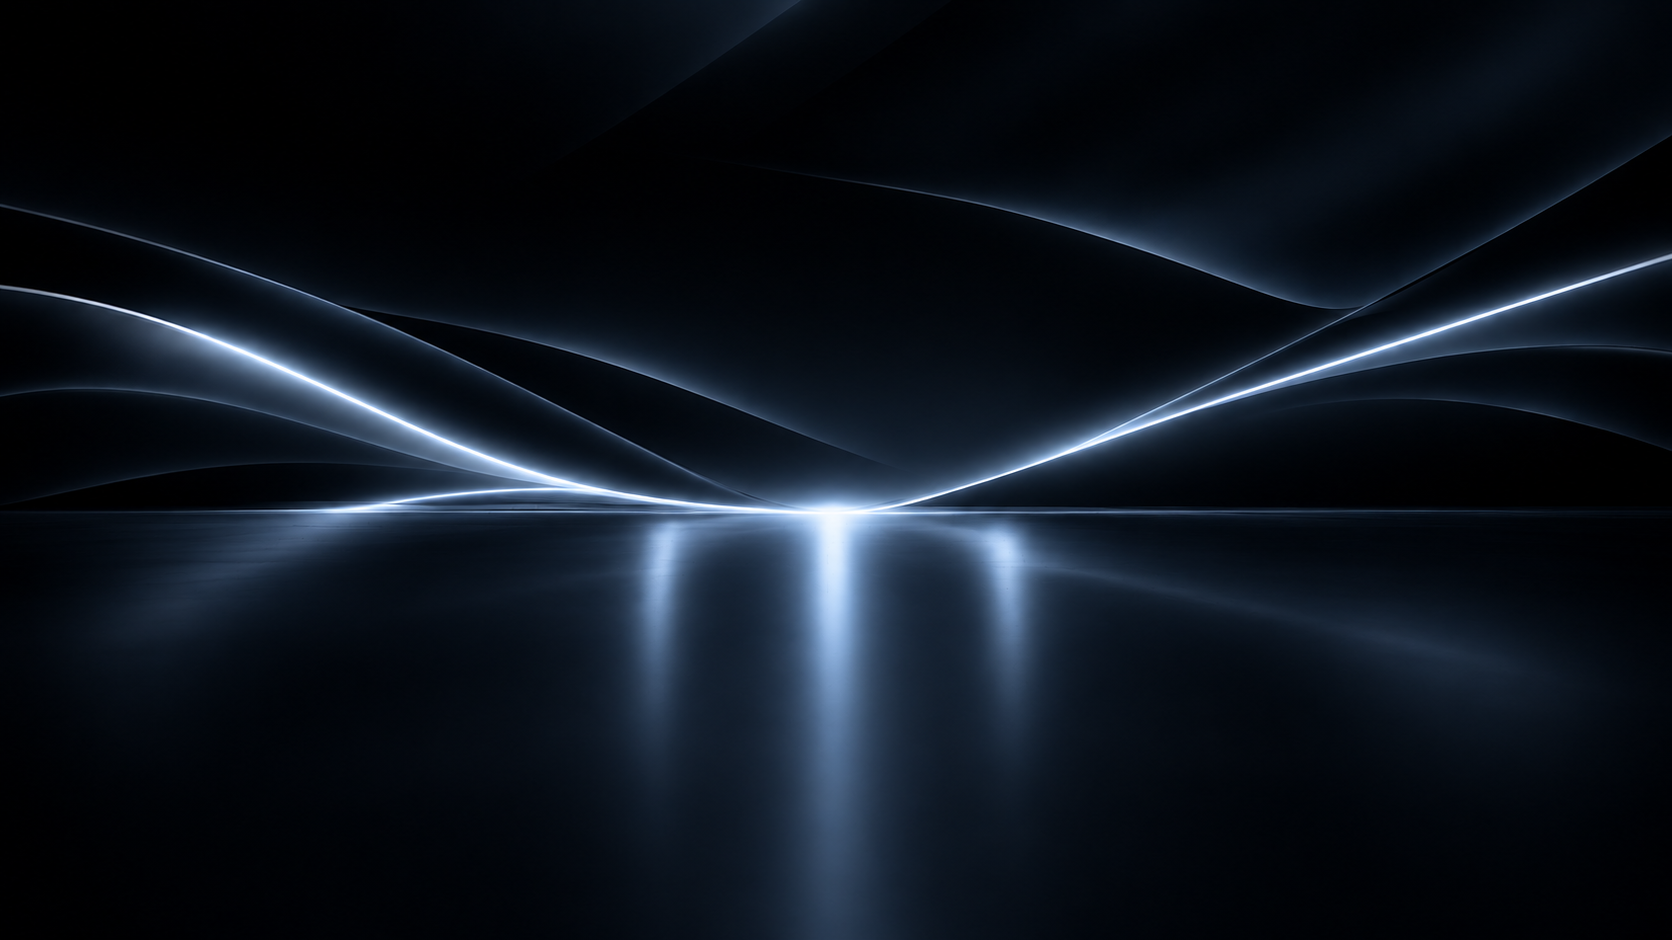
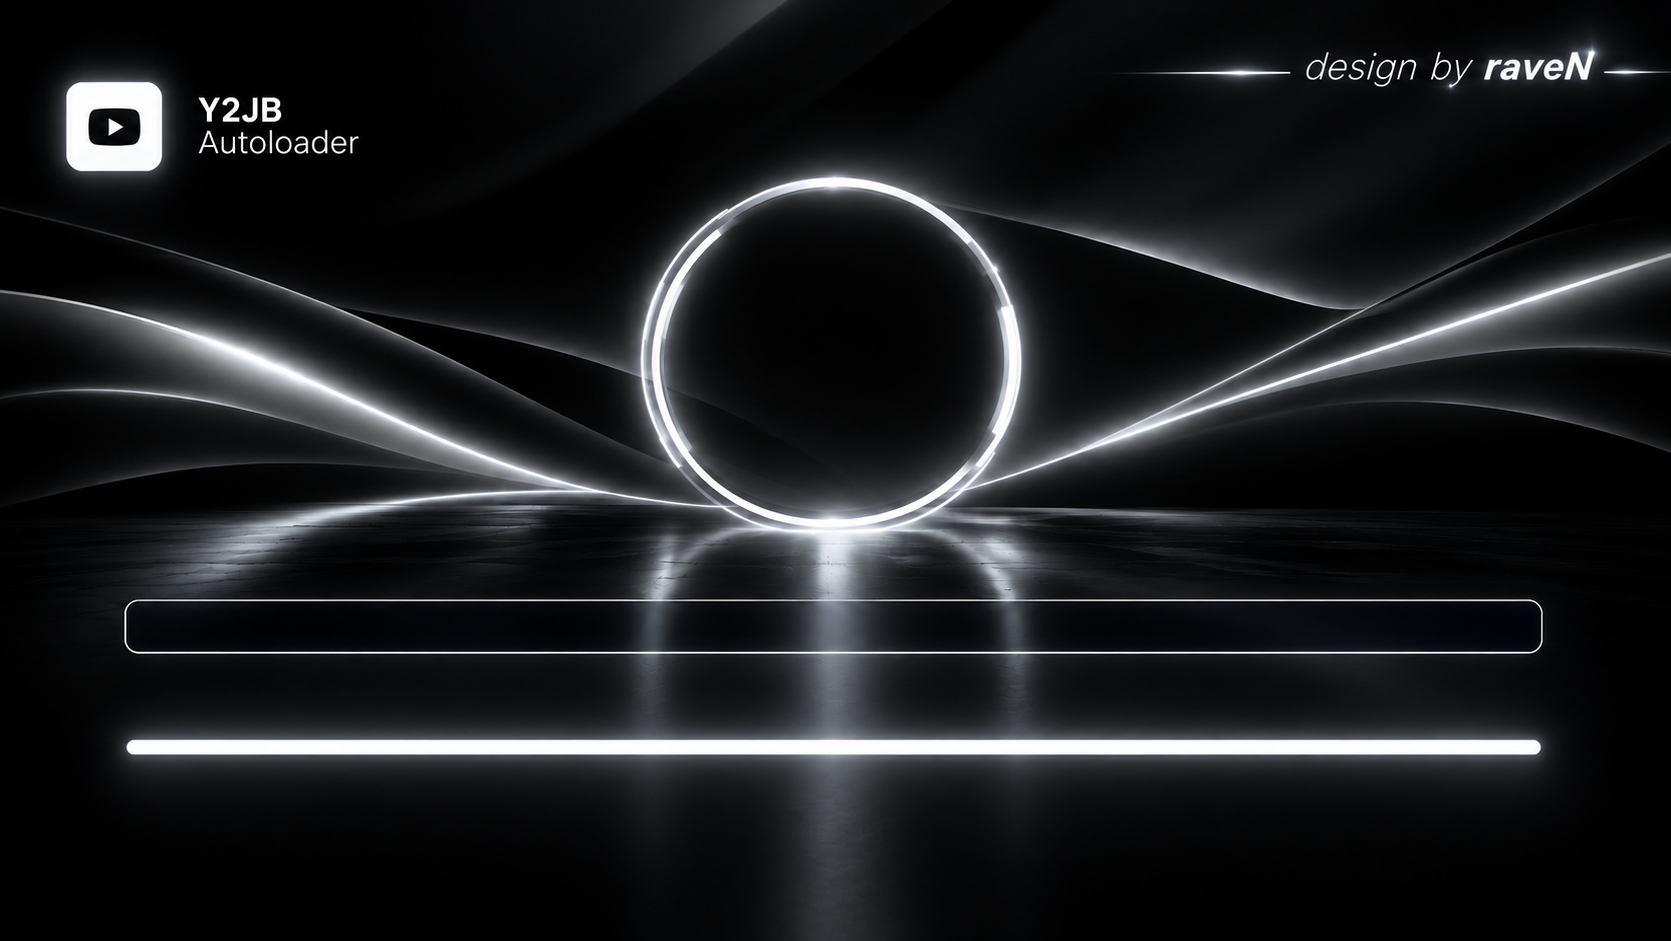
Redesign Y2JB loader ring and background

diff --git a/src/main.js b/src/main.js
@@ -229,69 +229,92 @@ function trigger() {
 	});
 	header.appendChild(credit);
 
-        // Central YouTube-style loader emblem. Keep all artwork native to avoid external requests.
+
+        // Central animated jailbreak loader.
         const emblem = document.createElement("div");
         Object.assign(emblem.style, {
-            position: "absolute", left: "50%", top: "45%", width: "420px", height: "420px",
-            transform: "translate(-50%,-50%)", display: "flex", alignItems: "center",
-            justifyContent: "center", opacity: "1", zIndex: "2", pointerEvents: "none"
+            position: "absolute", left: "50%", top: "45%",
+            width: "460px", height: "460px",
+            transform: "translate(-50%,-50%)",
+            display: "flex", alignItems: "center", justifyContent: "center",
+            opacity: "1", zIndex: "2", pointerEvents: "none"
         });
         root.appendChild(emblem);
 
         const ring = document.createElement("div");
         ring.id = "jailbreakRing";
         Object.assign(ring.style, {
-            position: "absolute", width: "300px", height: "300px", boxSizing: "border-box",
-            borderRadius: "50%", border: "2px solid rgba(255,255,255,.78)",
-            boxShadow: "0 0 18px rgba(255,255,255,.28),0 0 48px rgba(255,255,255,.14),inset 0 0 32px rgba(255,255,255,.06)"
+            position: "absolute",
+            width: "320px", height: "320px",
+            boxSizing: "border-box", borderRadius: "50%",
+            border: "12px solid transparent",
+            background: "conic-gradient(from 0deg, rgba(255,255,255,.06) 0deg, rgba(255,255,255,.12) 18deg, #fff 32deg, rgba(255,255,255,.95) 42deg, rgba(255,255,255,.12) 58deg, transparent 		72deg, transparent 88deg, rgba(255,255,255,.08) 100deg, rgba(255,255,255,.65) 116deg, #fff 128deg, rgba(255,255,255,.08) 143deg, transparent 158deg, transparent 178deg, 	rgba(255,255,255,.08) 190deg, rgba(255,255,255,.75) 207deg, #fff 218deg, rgba(255,255,255,.08) 234deg, transparent 250deg, transparent 268deg, rgba(255,255,255,.08) 280deg, 	rgba(255,255,255,.55) 296deg, #fff 307deg, rgba(255,255,255,.08) 324deg, transparent 340deg, transparent 360deg)",
+            boxShadow: "0 0 22px rgba(255,255,255,.65), 0 0 55px rgba(255,255,255,.38), 0 0 100px rgba(255,255,255,.16)",
+            filter: "drop-shadow(0 0 10px rgba(255,255,255,.75))",
+            animation: "jailbreakSpin 1.8s linear infinite",
+            WebkitMask: "radial-gradient(closest-side, transparent calc(100% - 16px), #000 calc(100% - 15px))",
+            mask: "radial-gradient(closest-side, transparent calc(100% - 16px), #000 calc(100% - 15px))",
         });
         emblem.appendChild(ring);
 
-        const mark = document.createElement("div");
-        mark.id = "jailbreakMark";
-        Object.assign(mark.style, {
-            width: "92px", height: "64px", borderRadius: "18px", background: "#fff",
-            display: "flex", alignItems: "center", justifyContent: "center",
-            boxShadow: "0 0 30px rgba(255,255,255,.24)"
+        const innerRing = document.createElement("div");
+        innerRing.id = "jailbreakInnerRing";
+        Object.assign(innerRing.style, {
+            position: "absolute",
+            width: "270px", height: "270px",
+            borderRadius: "50%", boxSizing: "border-box",
+            border: "2px solid rgba(255,255,255,.25)",
+            boxShadow: "inset 0 0 28px rgba(255,255,255,.08), 0 0 22px rgba(255,255,255,.15)",
+            animation: "jailbreakInnerPulse 1.2s ease-in-out infinite"
         });
-        const logoTriangle = document.createElement("div");
-        Object.assign(logoTriangle.style, {
-            width: "0", height: "0", marginLeft: "7px",
-            borderTop: "17px solid transparent", borderBottom: "17px solid transparent",
-            borderLeft: "27px solid #080808"
-        });
-        mark.appendChild(logoTriangle);
-        emblem.appendChild(mark);
-        ring.style.animation = "jailbreakPulse 2.4s ease-in-out infinite";
+        emblem.appendChild(innerRing);
 
         const animationStyle = document.createElement("style");
         animationStyle.textContent = `
-            @keyframes jailbreakPulse {
-                0%, 100% {
-                    box-shadow: 0 0 18px rgba(255,255,255,.24),
-                                0 0 42px rgba(255,255,255,.12),
-                                inset 0 0 28px rgba(255,255,255,.04);
-                    border-color: rgba(255,255,255,.68);
+            @keyframes jailbreakSpin {
+                0% {
+                    transform: rotate(0deg);
+                    filter: drop-shadow(0 0 8px rgba(255,255,255,.65));
                 }
                 50% {
-                    box-shadow: 0 0 26px rgba(255,255,255,.48),
-                                0 0 68px rgba(255,255,255,.22),
-                                inset 0 0 38px rgba(255,255,255,.09);
-                    border-color: rgba(255,255,255,1);
+                    filter: drop-shadow(0 0 20px rgba(255,255,255,1));
                 }
+                100% {
+                    transform: rotate(360deg);
+                    filter: drop-shadow(0 0 8px rgba(255,255,255,.65));
+                }
+            }
+            @keyframes jailbreakInnerPulse {
+                0%, 100% {
+                    opacity: .45;
+                    box-shadow: inset 0 0 18px rgba(255,255,255,.04), 0 0 12px rgba(255,255,255,.12);
+                }
+                50% {
+                    opacity: 1;
+                    box-shadow: inset 0 0 30px rgba(255,255,255,.12), 0 0 28px rgba(255,255,255,.32);
+                }
+            }
+            @keyframes jailbreakTextBlink {
+                0%, 100% { opacity: 1; }
+                50% { opacity: .28; }
+            }
+            #jailbreakStatus.loading {
+                animation: jailbreakTextBlink 1.2s ease-in-out infinite;
             }
         `;
         root.appendChild(animationStyle);
 
         const centralStatus = document.createElement("div");
         centralStatus.id = "jailbreakStatus";
+        centralStatus.className = "loading";
         centralStatus.textContent = "Jailbreak - Loading";
         Object.assign(centralStatus.style, {
-            position: "absolute", left: "50%", top: "64%",
-            transform: "translateX(-50%)", width: "700px",
-            textAlign: "center", fontSize: "25px", fontWeight: "600",
+            position: "absolute", left: "50%", top: "45%",
+            transform: "translate(-50%,-50%)",
+            width: "600px", textAlign: "center",
+            fontSize: "25px", fontWeight: "700",
             letterSpacing: "3px", color: "#fff",
-            textShadow: "0 0 12px rgba(255,255,255,.65), 0 0 28px rgba(255,255,255,.24)",
+            textShadow: "0 0 12px rgba(255,255,255,.9), 0 0 28px rgba(255,255,255,.65), 0 0 48px rgba(255,255,255,.28)",
             zIndex: "3", pointerEvents: "none"
         });
         root.appendChild(centralStatus);
@@ -1328,18 +1351,28 @@ function trigger() {
         const successDot = document.querySelector("#logWrapper > div");
 
         if (successStatus) {
-            successStatus.textContent = "Jailbreak - Succes";
+            successStatus.textContent = "Jailbreak - Success";
             successStatus.style.color = "#8dffb0";
             successStatus.style.textShadow = "0 0 14px rgba(80,255,140,.8), 0 0 32px rgba(80,255,140,.38)";
         }
         if (successRing) {
             successRing.style.animation = "none";
+            successRing.style.background = "conic-gradient(from 0deg, #8dffb0, #37e875, #d8ffe3, #37e875, #8dffb0)";
             successRing.style.borderColor = "#76ff9b";
-            successRing.style.boxShadow = "0 0 24px rgba(80,255,140,.55), 0 0 70px rgba(80,255,140,.28), inset 0 0 36px rgba(80,255,140,.12)";
+            successRing.style.boxShadow = "0 0 28px rgba(80,255,140,.8), 0 0 70px rgba(80,255,140,.5), 0 0 110px rgba(80,255,140,.22)";
+            successRing.style.filter = "drop-shadow(0 0 14px rgba(80,255,140,.85))";
         }
-        if (successMark) {
-            successMark.style.background = "#8dffb0";
-            successMark.style.boxShadow = "0 0 32px rgba(80,255,140,.55)";
+
+        const successInnerRing = document.getElementById("jailbreakInnerRing");
+        if (successInnerRing) {
+            successInnerRing.style.animation = "none";
+            successInnerRing.style.opacity = "1";
+            successInnerRing.style.borderColor = "rgba(118,255,155,.8)";
+            successInnerRing.style.boxShadow = "inset 0 0 30px rgba(80,255,140,.2), 0 0 30px rgba(80,255,140,.4)";
+        }
+
+        if (successStatus) {
+            successStatus.classList.remove("loading");
         }
         if (successLabel) {
             successLabel.textContent = "100%";
